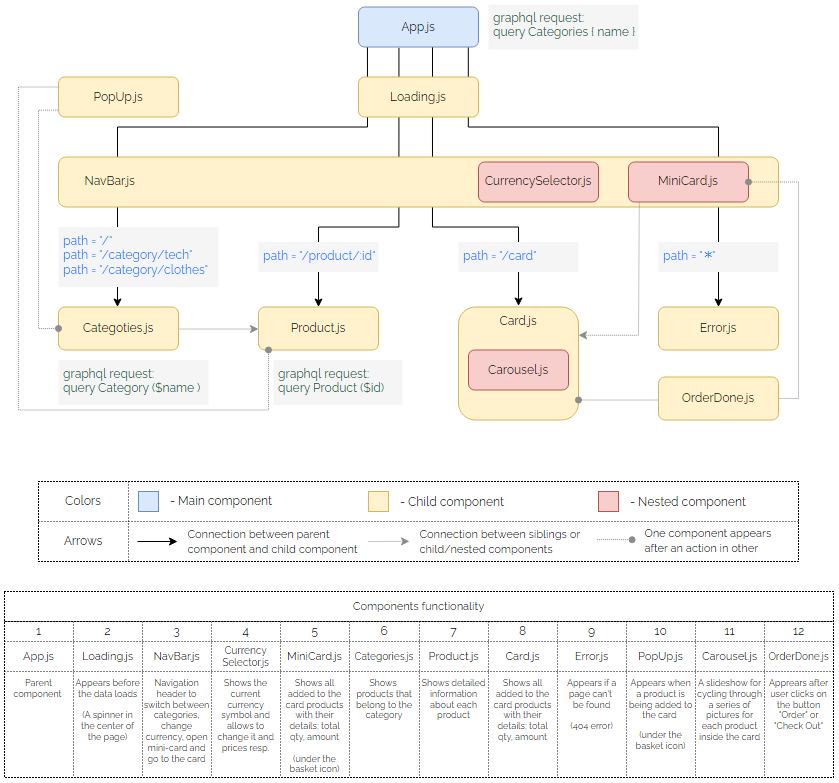
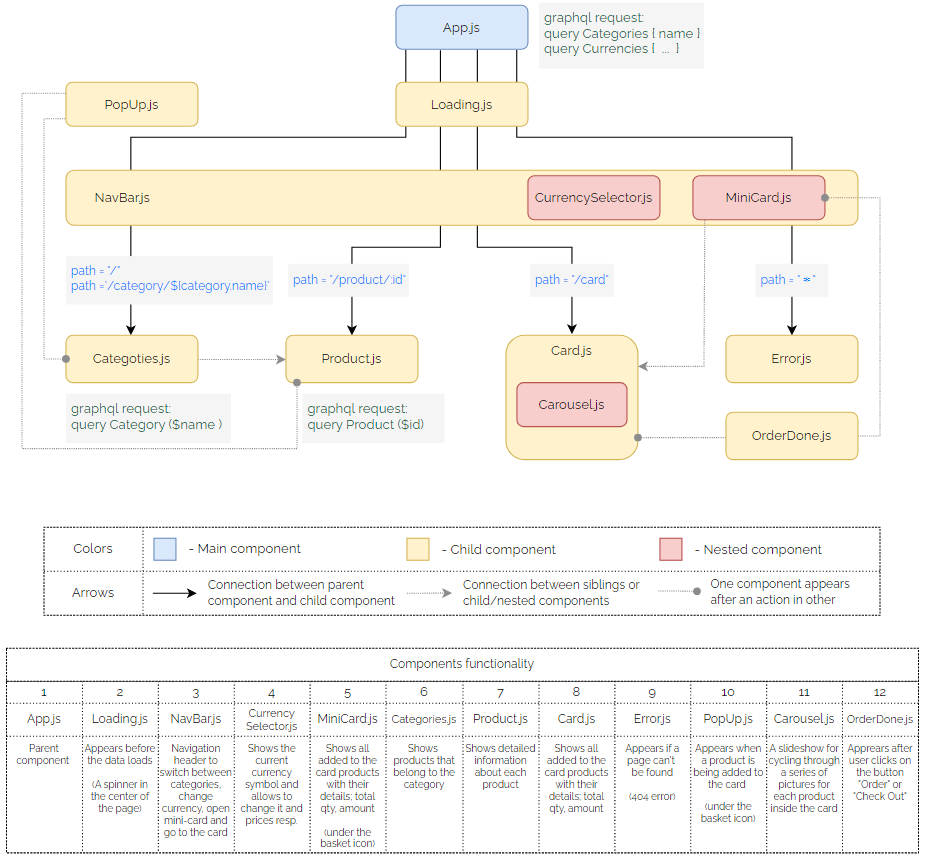
Category pages and currencies are fetched and rendered dynamically

diff --git a/src/components/App.js b/src/components/App.js
@@ -12,7 +12,7 @@ import Loading from "./Loading";
 import Error from "./Error";
 import OrderDone from "./OrderDone";
 
-import { ALL_CATEGORIES } from "../graphql/queries";
+import { ALL_CATEGORIES, ALL_CURRENCIES } from "../graphql/queries";
 import { endpoint, options } from './FetchData';
 var _ = require('lodash');
 
@@ -22,6 +22,7 @@ class App extends React.Component {
 
 state = { 
             categories: [], 
+            currencies: [],
             currencyType: 0,
             isLoaded: false, 
             productId: '',
@@ -33,7 +34,7 @@ state = {
     
     componentDidMount() {
         //fetch categories names to use them in URLs
-        options.body = JSON.stringify({query: ALL_CATEGORIES, variables: {} })
+        options.body = JSON.stringify([{query: ALL_CATEGORIES, variables: {} }, {query: ALL_CURRENCIES, variables: {} }])
         fetch(endpoint, options)
         .then(response => {
             if (response.status >= 500) {
@@ -43,8 +44,7 @@ state = {
             }
         })
         .then( data => 
-            this.setState({categories: data.data.categories, isLoaded: true}) )
-
+            this.setState({categories: data[0].data.categories, currencies: data[1].data.currencies, isLoaded: true}) )
         //when the page is uploaded check if there's any cache data
         if(JSON.parse(localStorage.getItem('productsToCard')) && this.state.productsToCard !== JSON.parse(localStorage.getItem('productsToCard')) ) {
             this.setState({
@@ -257,8 +257,7 @@ state = {
 
 
     render() {
-        const { categories, isLoaded, currencyType, productsToCard, numberOfProducts, popUpProduct } = this.state;
-
+        const { categories, currencies, isLoaded, currencyType, productsToCard, numberOfProducts, popUpProduct } = this.state;
         if (!isLoaded) {
             return (
             <Loading />)
@@ -270,6 +269,8 @@ state = {
                     <div>
                         <NavBar 
                             changeCurrency={(currencyFromNav) => this.onChangeCurrency(currencyFromNav)}
+                            categories={categories}
+                            currencies={currencies}
                             numberOfProducts={numberOfProducts}
                             productsToCard={productsToCard} 
                             currencyType={currencyType}
@@ -284,30 +285,21 @@ state = {
                         <OrderDone />
                     </div>
                     <Routes>
-                        <Route path='/' element={
-                            <Categories 
-                                categoryName={categories[0].name}
-                                currencyType={currencyType}
-                                productsToCard={(product) => this.addToCard(product)}
-                                numberUp={() => this.numberUp()}
-                            />
-                        }/>
-                        <Route path={`/category/${categories[1].name}`} element={
-                            <Categories 
-                                categoryName={categories[1].name || "clothes"}
-                                currencyType={currencyType}   
-                                productsToCard={(product) => this.addToCard(product)}
-                                numberUp={() => this.numberUp()}
-                            />
-                        }/>
-                        <Route path={`/category/${categories[2].name}`} element={
-                            <Categories 
-                                categoryName={categories[2].name}
-                                currencyType={currencyType} 
-                                productsToCard={(product) => this.addToCard(product)}
-                                numberUp={() => this.numberUp()}
-                            />
-                        }/>
+                        
+                        {categories.map(category => {
+                            return (
+                                <Route key={category.name} 
+                                path={category.name === "all" ? "/" : `/category/${category.name}`} element={
+                                    <Categories 
+                                        categoryName={category.name}
+                                        currencyType={currencyType}   
+                                        productsToCard={(product) => this.addToCard(product)}
+                                        numberUp={() => this.numberUp()}
+                                    />}
+                                />
+                            )
+                        })}
+
                         <Route path='/product/:id' element={
                             <Product currencyType={currencyType} 
                                 productsToCard={(product) => this.addToCard(product)}
@@ -335,3 +327,4 @@ state = {
 };
 
 export default App;
+

diff --git a/src/components/CurrencySelector.js b/src/components/CurrencySelector.js
@@ -8,30 +8,10 @@ import arrow from '../images/arrow.png'
 
 class CurrencySelector extends React.Component {
 
-    currencies =[
-        {
-            label: "USD",
-            symbol: "$"
-        },
-        {
-            label: "GBP",
-            symbol: "£ "
-        },
-        {
-            label: "AUD",
-            symbol: "A$ "
-        },
-        {
-            label: "JPY",
-            symbol: "¥ "
-        },
-        {
-            label: "RUB",
-            symbol: "₽ "
-        }
-]
-
-    state ={ currentCurrency: this.currencies[this.props.currencyType].symbol }
+    state ={ 
+        currencies: this.props.currencies,
+        currencyType: this.props.currencyType
+    }
 
     onChangeCurrency(event) {
         this.props.currencyChange(event.target.id)
@@ -47,9 +27,6 @@ class CurrencySelector extends React.Component {
         shownField.textContent = selectedSymbol;
         arrowIcon.classList.toggle("rotate")
         optionsField.classList.toggle("hidden")
-        if(selectedSymbol !== this.state.currentCurrency) {
-            this.setState({currentCurrency: selectedSymbol})
-        }
         this.onChangeCurrency(event)
     }
 
@@ -75,7 +52,7 @@ class CurrencySelector extends React.Component {
     }
 
     render() {
-        const {currentCurrency} = this.state;
+        const {currencies, currencyType} = this.state;
 
         return(
         <div className="currency-selector-field">
@@ -83,26 +60,18 @@ class CurrencySelector extends React.Component {
             //if a user move from currency selector to miniCard, close dropdown
             onMouseLeave={(e) => this.closeDropdown(e)}>
                 <div id="selector-field" onClick={(e) => this.onHideDropdown(e)}>
-                    <p id="selector-field-symbol">{currentCurrency}</p>
+                    <p id="selector-field-symbol">{currencies[currencyType].symbol}</p>
                     <img src={arrow} alt="" id="currency-arrow-icon" />
                 </div>
                 <ul id="options-field" className="hidden" 
                     onClick={event => this.onOptionClick(event)}>
-                    <li className="currency-option">
-                        <p id="0" className="symbol-label">$ &nbsp;USD</p>
-                    </li>
-                    <li className="currency-option">
-                        <p id="1" className="symbol-label">£ &nbsp;GBP</p>
-                    </li>
-                    <li className="currency-option">
-                        <p id="2" className="symbol-label">A$ &nbsp;AUD</p>
-                    </li>
-                    <li className="currency-option">
-                        <p id="3" className="symbol-label">¥ &nbsp;JPY</p>
-                    </li>
-                    <li className="currency-option">
-                        <p id="4" className="symbol-label">₽ &nbsp;RUB</p>
-                    </li>
+                    {currencies.map( (currency, index) => {
+                        return (
+                            <li className="currency-option" key={currency.symbol}>
+                                <p id={index} className="symbol-label">{currency.symbol} &nbsp;{currency.label}</p>
+                            </li>
+                        )
+                    })}
                 </ul>
             </div> 
         </div>

diff --git a/src/components/NavBar.js b/src/components/NavBar.js
@@ -31,19 +31,19 @@ class NavBar extends React.Component {
         return(
             <div className="navbar" onClick={() => this.props.showViewButton()}>
                 <div className="navbar-buttons">
-                    <Link to="/"> 
-                        <button>all</button>
-                    </Link>
-                    <Link to="/category/clothes">
-                        <button>clothes</button>
-                    </Link>
-                    <Link to="/category/tech">
-                        <button>tech</button>
-                    </Link>
+                    {this.props.categories.map(category => {
+                        return (
+                            <Link key={category.name} 
+                            to={category.name === "all" ? "/" : `/category/${category.name}`}> 
+                                <button>{category.name}</button>
+                            </Link>
+                        )
+                    })}
                 </div>
                 <div className="navbar-right-icons">
                     <div className="navbar-currency">
                         <CurrencySelector 
+                            currencies={this.props.currencies}
                             currencyChange={(currencyFromSelector) => this.onChangeCurrency(currencyFromSelector)}  
                             currencyType={this.props.currencyType}
                         />

diff --git a/src/graphql/queries.js b/src/graphql/queries.js
@@ -68,3 +68,11 @@ query Categories {
         name
     }
 }`;
+
+export const ALL_CURRENCIES = `
+query Currencies {
+    currencies {
+        label
+        symbol
+    }
+}`
